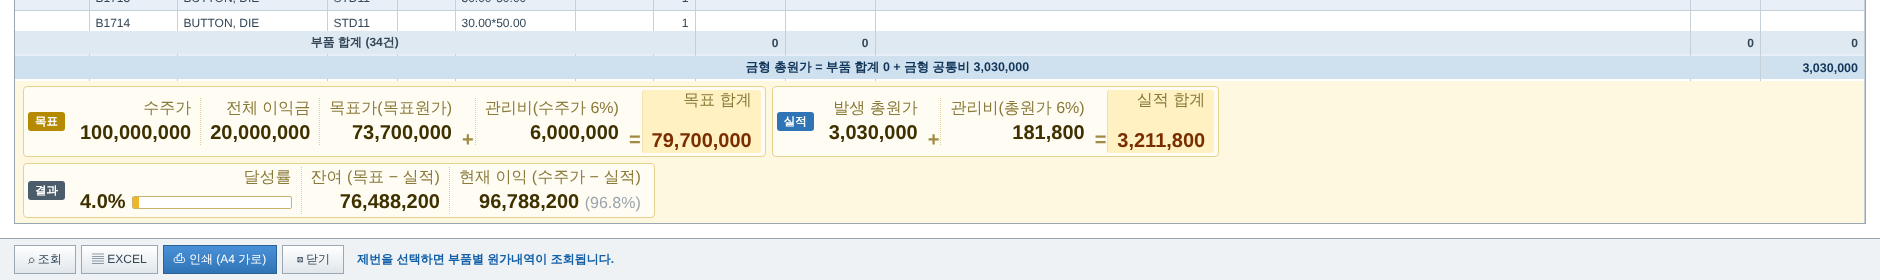
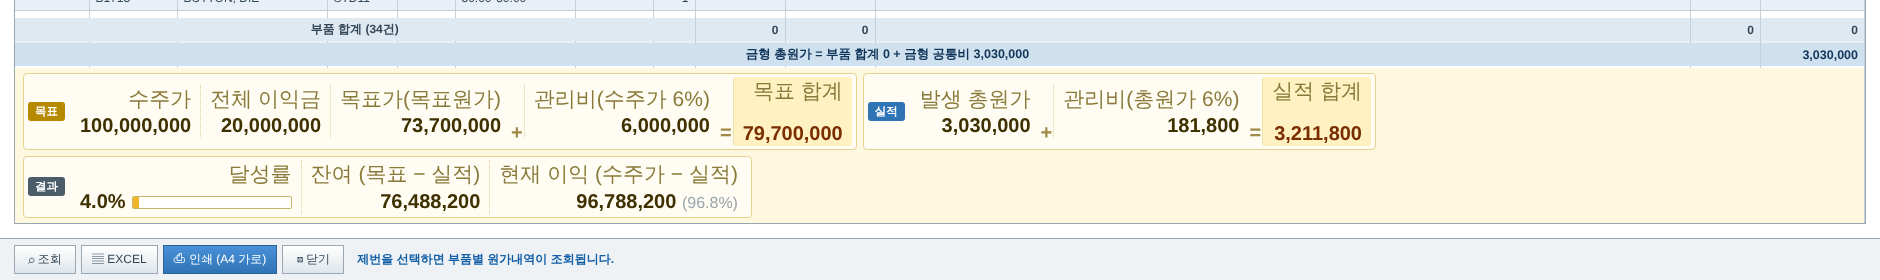
v367: 금형원가내역 요약 항목명 2배(21px), 금액 1.5배(20px)
Claude-Session: https://claude.ai/code/session_01WXyYuHVkewFn7DyBKV4Fhd

diff --git a/job_cost_sheet.html b/job_cost_sheet.html
@@ -65,9 +65,9 @@ tfoot tr.tgt td{line-height:1.3!important;padding:5px 8px!important}
 .tg .bar{display:inline-block;vertical-align:middle;width:110px!important;height:9px!important;margin:0 0 0 6px!important}
 .tg .na{color:#9aa5ad;font-weight:400;font-size:11px}
 tfoot tr td{bottom:var(--sb,0px)}   /* v343: 바닥 고정 줄이 3개 — 각 줄의 아래 간격은 스크립트가 계산 */
-/* v367: 목표·실적·결과 세부 항목의 항목명·금액을 1.5배로 (10.5→16px, 13→20px). 큰 글자가 위 줄에 가려지지 않게 넘침 허용 */
+/* v367: 목표·실적·결과 세부 항목 — 항목명 2배(10.5→21px), 금액 1.5배(13→20px). 큰 글자가 위 줄에 가려지지 않게 넘침 허용 */
 tfoot tr.tgt td{overflow:visible}
-.tg .k small{font-size:16px}
+.tg .k small{font-size:21px}
 .tg .k b{font-size:20px}
 .tg .na{font-size:16px}
 .tg .op{font-size:20px}
